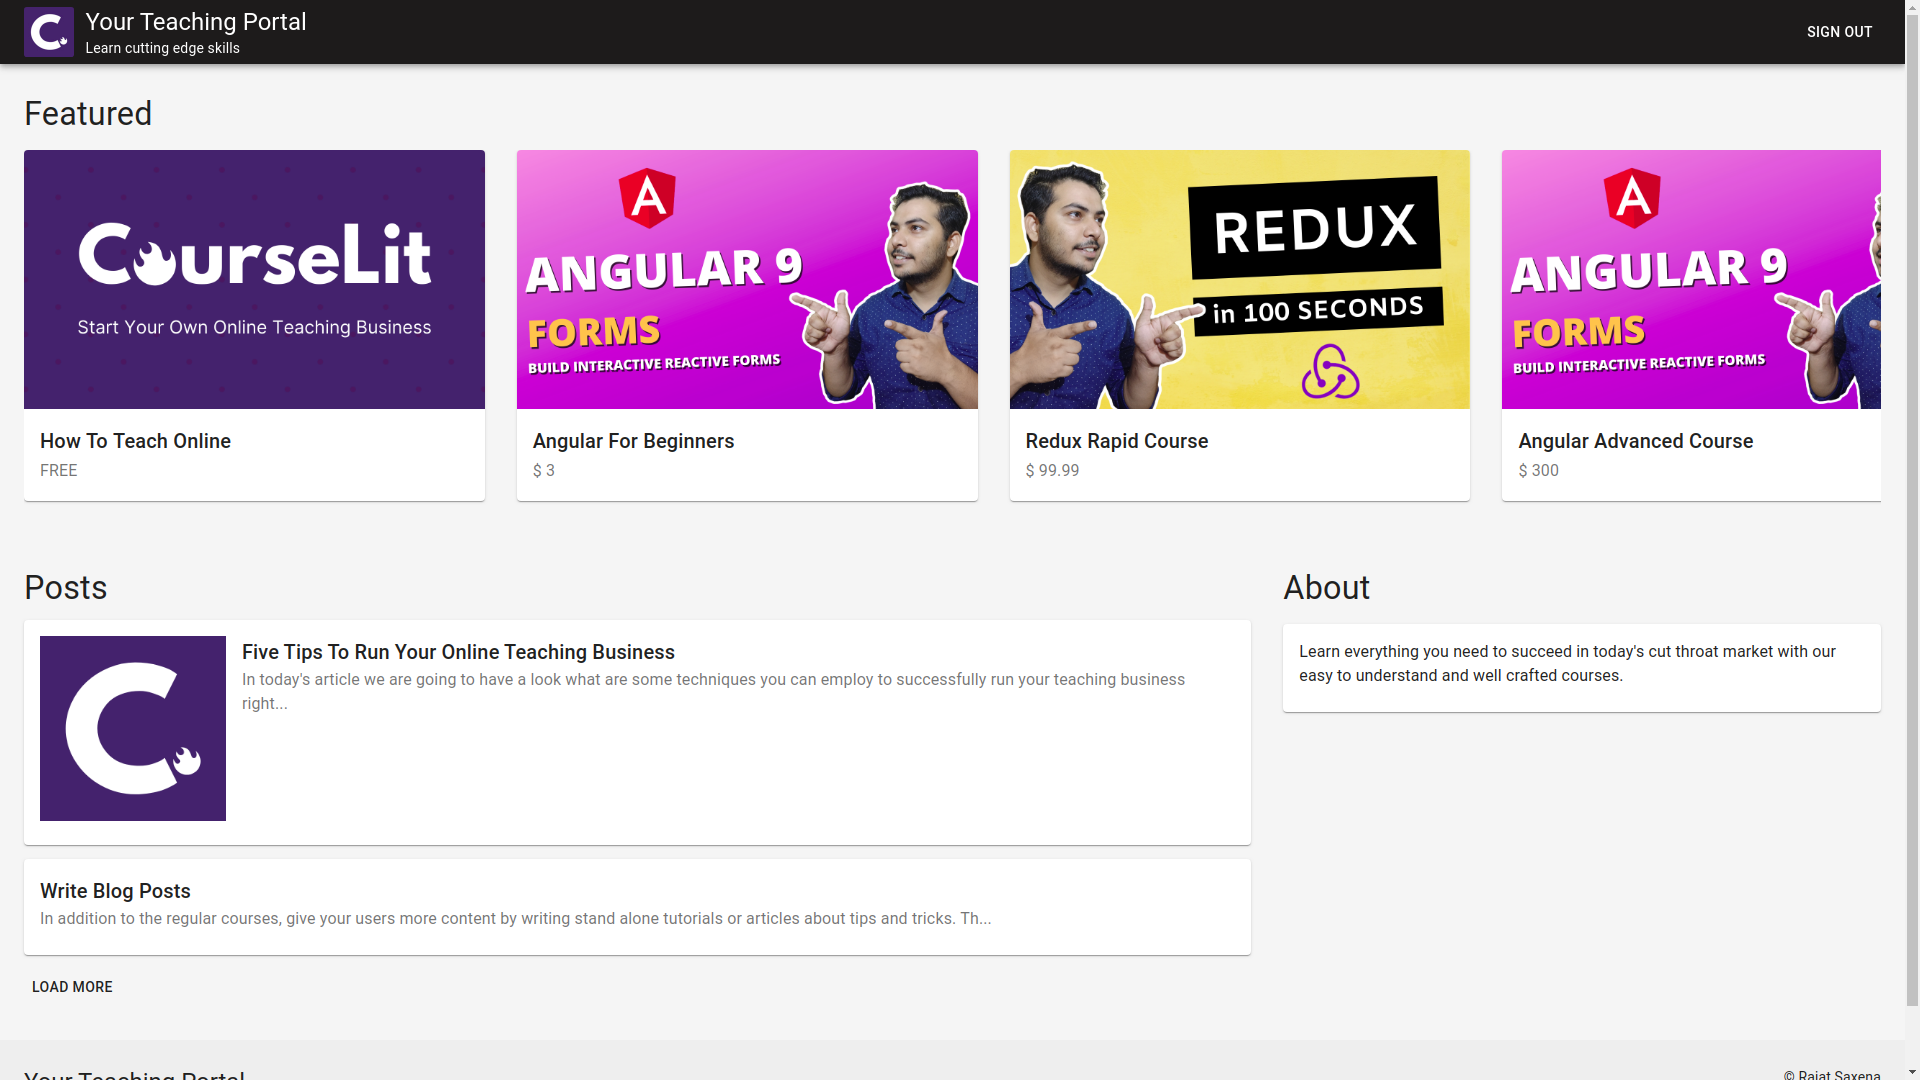
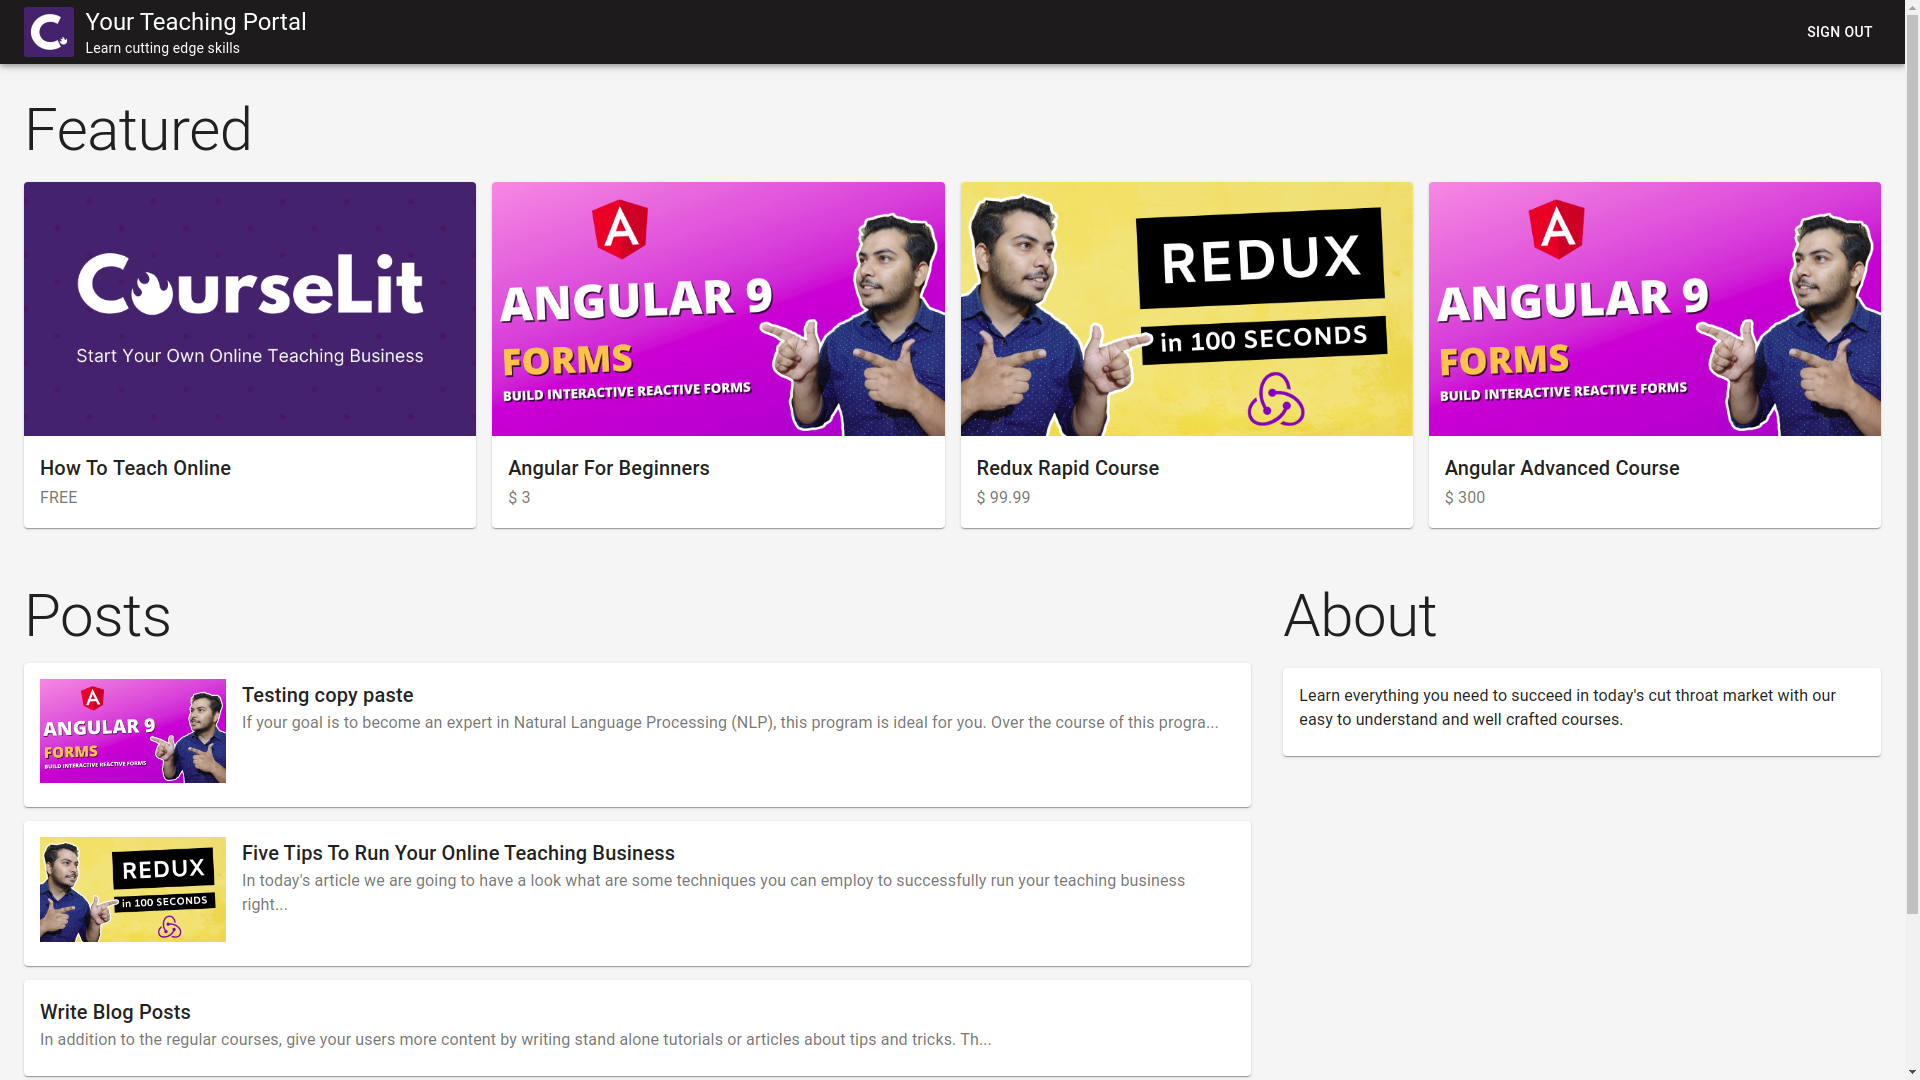
Titleson every page

diff --git a/frontend/pages/course/[id]/[slug].js b/frontend/pages/course/[id]/[slug].js
@@ -1,7 +1,7 @@
 import { connect } from "react-redux";
 import ResponsiveDrawer from "../../../components/ResponsiveDrawer.js";
 import Head from "next/head";
-import { formulateCourseUrl, formulateMediaUrl } from "../../../lib/utils.js";
+import { formulateCourseUrl, formulateMediaUrl, getPostDescriptionSnippet } from "../../../lib/utils.js";
 import { Lock } from "@material-ui/icons";
 import { BACKEND, FRONTEND, MEDIA_BACKEND } from "../../../config/constants.js";
 import { SIDEBAR_TEXT_COURSE_ABOUT } from "../../../config/strings.js";
@@ -41,14 +41,14 @@ const Course = props => {
       {!error && (
         <>
           <Head>
-            <title>{course.title}</title>
+            <title>{course.title} | {props.siteInfo.title}</title>
             <meta
               property="og:url"
               content={formulateCourseUrl(course, FRONTEND)}
             />
             <meta property="og:type" content="article" />
             <meta property="og:title" content={course.title} />
-            {/* <meta property="og:description" content={getPostDescriptionSnippet(course.description)} /> */}
+            <meta property="og:description" content={getPostDescriptionSnippet(course.description)} />
             <meta property="og:author" content={course.creatorName} />
             {course.featuredImage && (
               <meta
@@ -108,7 +108,8 @@ Course.getInitialProps = async ({ query }) => {
 };
 
 const mapStateToProps = state => ({
-  profile: state.profile
+  profile: state.profile,
+  siteInfo: state.siteinfo
 });
 
 export default connect(mapStateToProps)(Course);

diff --git a/frontend/pages/courses.js b/frontend/pages/courses.js
@@ -8,10 +8,25 @@ import { BTN_LOAD_MORE, PAGE_HEADER_ALL_COURSES } from "../config/strings.js";
 import MasterLayout from "../components/Masterlayout.js";
 import ContainedBodyLayout from "../components/ContainedBodyLayout.js";
 import { Typography, Button } from "@material-ui/core";
+import { makeStyles } from "@material-ui/styles";
+
+const useStyles = makeStyles(theme => ({
+  header: {
+    marginTop: theme.spacing(2),
+    marginBottom: theme.spacing(2),
+    [theme.breakpoints.up('sm')]: {
+      marginTop: theme.spacing(4),
+    }
+  },
+  loadMoreBtn: {
+    marginBottom: theme.spacing(4)
+  }
+}))
 
 const Courses = props => {
   const [courses, setCourses] = useState(props.courses);
   const [hasMorePages, setHasMorePages] = useState(true);
+  const classes = useStyles();
 
   const getMoreCourses = async () => {
     if (hasMorePages) {
@@ -26,15 +41,16 @@ const Courses = props => {
   };
 
   return (
-    <MasterLayout>
+    <MasterLayout title={PAGE_HEADER_ALL_COURSES}>
       <ContainedBodyLayout>
-        <Typography variant="h2">{PAGE_HEADER_ALL_COURSES}</Typography>
+        <Typography variant="h2" className={classes.header}>{PAGE_HEADER_ALL_COURSES}</Typography>
         {courses.map(course => (
           <CourseItem course={course} key={course.id} isPublicView={true} />
         ))}
         <Button
           onClick={getMoreCourses}
           disabled={hasMorePages ? null : "disabled"}
+          className={classes.loadMoreBtn}
         >
           {BTN_LOAD_MORE}
         </Button>

diff --git a/frontend/pages/post/[id]/[slug].js b/frontend/pages/post/[id]/[slug].js
@@ -1,3 +1,4 @@
+import PropTypes from "prop-types";
 import { connect } from "react-redux";
 import MasterLayout from "../../../components/Masterlayout.js";
 import { BACKEND, FRONTEND, MEDIA_BACKEND } from "../../../config/constants.js";
@@ -11,15 +12,16 @@ import Head from "next/head";
 import ContainedBodyLayout from "../../../components/ContainedBodyLayout.js";
 import Article from "../../../components/Article.js";
 import FetchBuilder from "../../../lib/fetch.js";
+import { siteInfoProps } from "../../../types.js";
 
-const useStyles = makeStyles({
+const useStyles = makeStyles(theme => ({
   articleMarginAdjust: {
-    marginTop: "3.2em"
+    marginTop: theme.spacing(2)
   },
   articleMarginBottomAdjust: {
-    marginBottom: "2em"
+    marginBottom: theme.spacing(2)
   }
-});
+}))
 
 const Post = props => {
   const classes = useStyles();
@@ -28,11 +30,10 @@ const Post = props => {
   };
 
   return (
-    <MasterLayout>
+    <MasterLayout title={props.post.title}>
       {props.post && (
         <>
           <Head>
-            <title>{props.post.title}</title>
             <meta
               property="og:url"
               content={formulateCourseUrl(props.post, FRONTEND)}
@@ -91,4 +92,12 @@ Post.getInitialProps = async ({ query }) => {
   return { post: response.post };
 };
 
-export default connect()(Post);
+Post.propTypes = {
+  siteInfo: siteInfoProps
+}
+
+const mapStateToProps = state => ({
+  siteInfo: state.siteinfo
+});
+
+export default connect(mapStateToProps)(Post);

diff --git a/frontend/pages/index.js b/frontend/pages/index.js
@@ -17,6 +17,7 @@ import { makeStyles } from "@material-ui/styles";
 import ContainedBodyLayout from "../components/ContainedBodyLayout.js";
 import About from "../components/About.js";
 import FetchBuilder from "../lib/fetch.js";
+import { siteInfoProps } from "../types.js";
 
 const useStyles = makeStyles(theme => ({
   root: {
@@ -75,7 +76,7 @@ const Index = props => {
   };
 
   return (
-    <MasterLayout>
+    <MasterLayout title={`${props.siteinfo.subtitle} | ${props.siteinfo.title}`}>
       <Grid container direction="column">
         {hasContentToShow === true && (
           <>
@@ -93,7 +94,7 @@ const Index = props => {
                   {posts.length > 0 && (
                     <Grid item xs={12} sm={8}>
                       <section>
-                        <Typography variant="h4">
+                        <Typography variant="h2">
                           {HEADER_BLOG_POSTS_SECTION}
                         </Typography>
                         {posts.map((x, index) => (
@@ -210,7 +211,8 @@ const getFeaturedCourses = async () => {
 
 const mapStateToProps = state => ({
   auth: state.auth,
-  profile: state.profile
+  profile: state.profile,
+  siteinfo: state.siteinfo
 });
 
 const mapDispatchToProps = dispatch => ({

diff --git a/frontend/components/Masterlayout.js b/frontend/components/Masterlayout.js
@@ -25,12 +25,13 @@ const MasterLayout = props => {
   return (
     <>
       <Head>
-        {props.siteinfo.logopath && (
+        <title>{props.title} | {props.siteInfo.title}</title>
+        {props.siteInfo.logopath && (
           <link
             rel="icon"
             href={formulateMediaUrl(
               MEDIA_BACKEND,
-              props.siteinfo.logopath,
+              props.siteInfo.logopath,
               true
             )}
           />
@@ -48,12 +49,13 @@ const MasterLayout = props => {
 MasterLayout.propTypes = {
   children: PropTypes.object,
   networkAction: PropTypes.bool,
-  siteinfo: siteInfoProps
+  siteInfo: siteInfoProps.isRequired,
+  title: PropTypes.string.isRequired
 };
 
 const mapStateToProps = state => ({
   networkAction: state.networkAction,
-  siteinfo: state.siteinfo
+  siteInfo: state.siteinfo
 });
 
 export default connect(mapStateToProps)(MasterLayout);

diff --git a/frontend/components/CourseItem.js b/frontend/components/CourseItem.js
@@ -67,7 +67,7 @@ const CourseItem = props => {
                       </Typography>
                     </Grid>
                     <Grid item>
-                      <Typography variant="body1">{description}</Typography>
+                      <Typography variant="body1" component='div'>{description}</Typography>
                     </Grid>
                     <Grid item>
                       <PriceTag cost={course.cost}></PriceTag>

diff --git a/frontend/components/Hero.js b/frontend/components/Hero.js
@@ -37,7 +37,7 @@ const Hero = props => {
     <div className={classes.container}>
       <Grid container className={classes.header}>
         <Grid item>
-          <Typography variant="h4">{FEATURED_SECTION_HEADER}</Typography>
+          <Typography variant="h2">{FEATURED_SECTION_HEADER}</Typography>
         </Grid>
       </Grid>
       <Grid container alignItems="center" justify="space-between" spacing={2}>

diff --git a/frontend/components/Article.js b/frontend/components/Article.js
@@ -20,7 +20,10 @@ import PriceTag from "./PriceTag";
 const useStyles = featuredImage =>
   makeStyles(theme => ({
     header: {
-      marginBottom: theme.spacing(2)
+      marginBottom: theme.spacing(1),
+      [theme.breakpoints.up('sm')]: {
+        marginBottom: theme.spacing(4),
+      }
     },
     creatoravatarcontainer: {
       display: "flex",

diff --git a/frontend/components/About.js b/frontend/components/About.js
@@ -8,7 +8,7 @@ const About = props =>
   props.siteInfo.about ? (
     <Grid container spacing={2}>
       <Grid item>
-        <Typography variant="h4">{HEADER_ABOUT_SECTION}</Typography>
+        <Typography variant="h2">{HEADER_ABOUT_SECTION}</Typography>
       </Grid>
       <Grid item>
         <Card>
